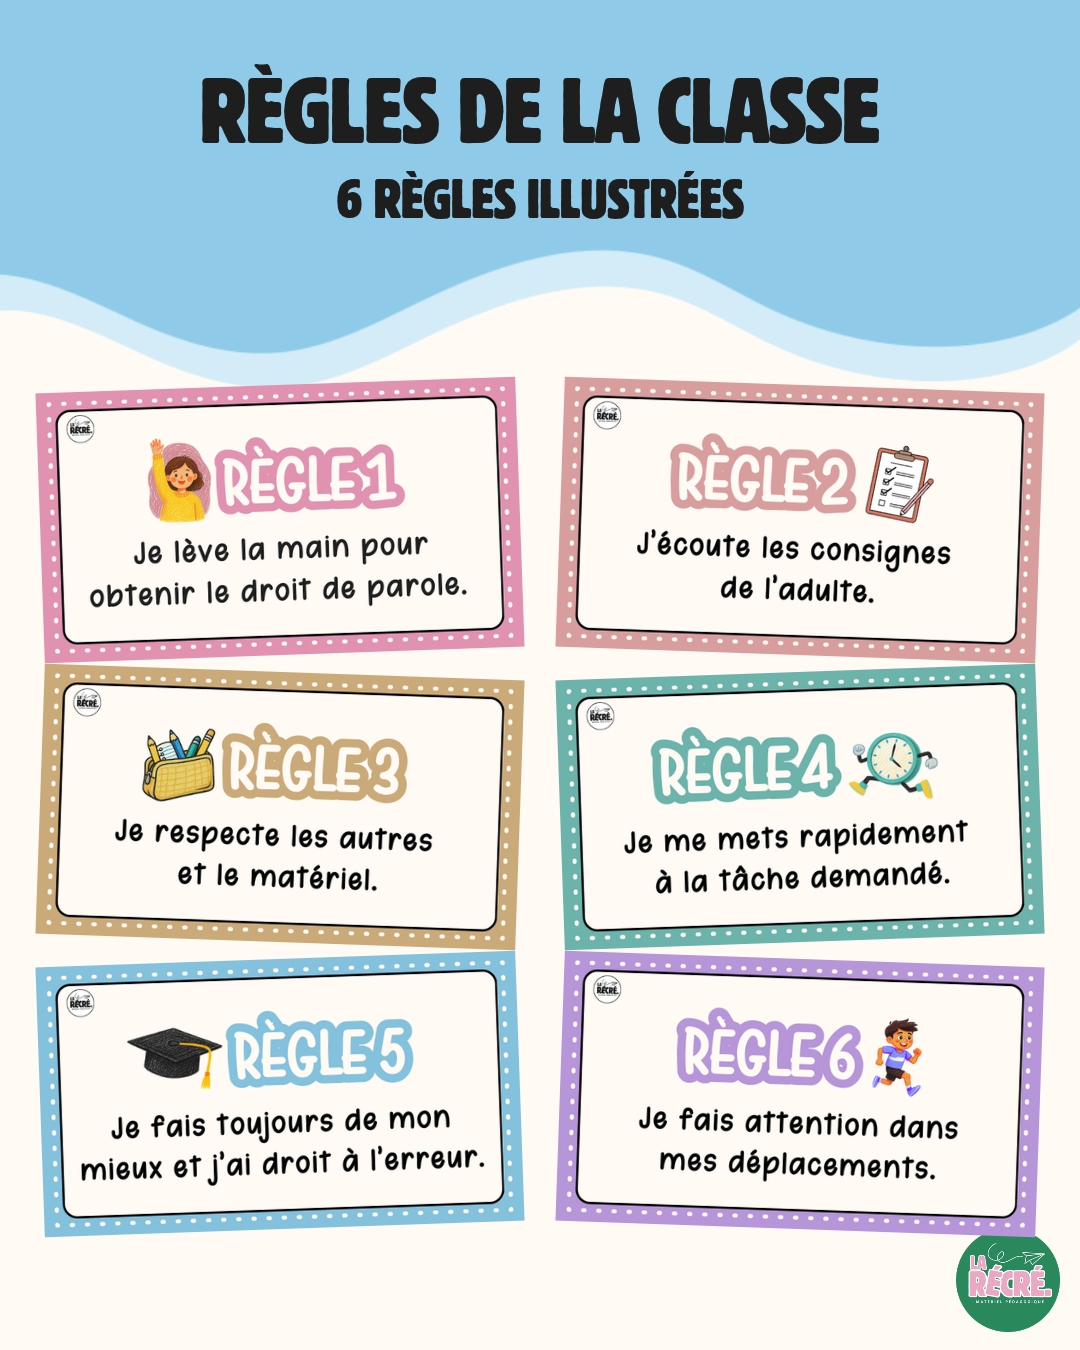
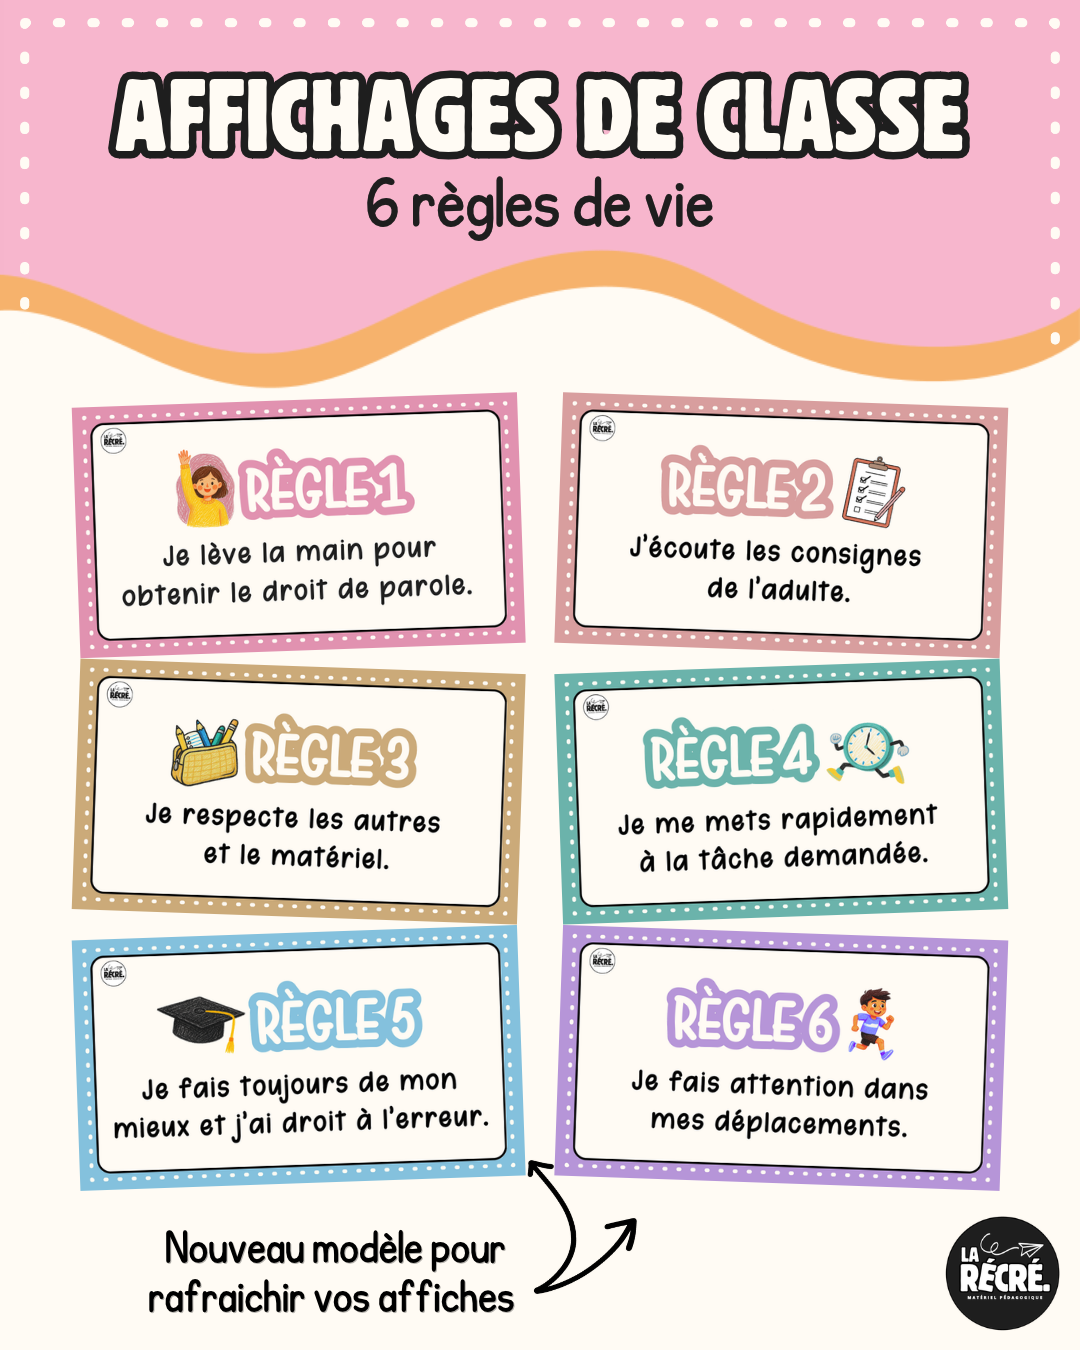
Règles de la classe : aperçu Instagram final (règle 4 corrigée)
Claude-Session: https://claude.ai/code/session_01NiTaWGpjQjB6yeVp3yNw7H

diff --git a/ressources/regles-classe/canva.md b/ressources/regles-classe/canva.md
@@ -6,4 +6,4 @@ Le document des règles (6 cartes illustrées) est celui de la créatrice. Il n'
 
 ## Aperçu Instagram (1080 × 1350)
 - Design Canva (copie du gabarit « Aperçu boutique ») : https://www.canva.com/d/nTvs58FBbq-6XOg
-- `apercus/apercu-instagram.png` : les 6 règles en grille, sous le titre « Règles de la classe » et le sous-titre « 6 règles illustrées ».
+- `apercus/apercu-instagram.png` : les 6 règles en grille, version finale de la créatrice : titre « Affichages de classe », sous-titre « 6 règles de vie », règle 4 corrigée.
